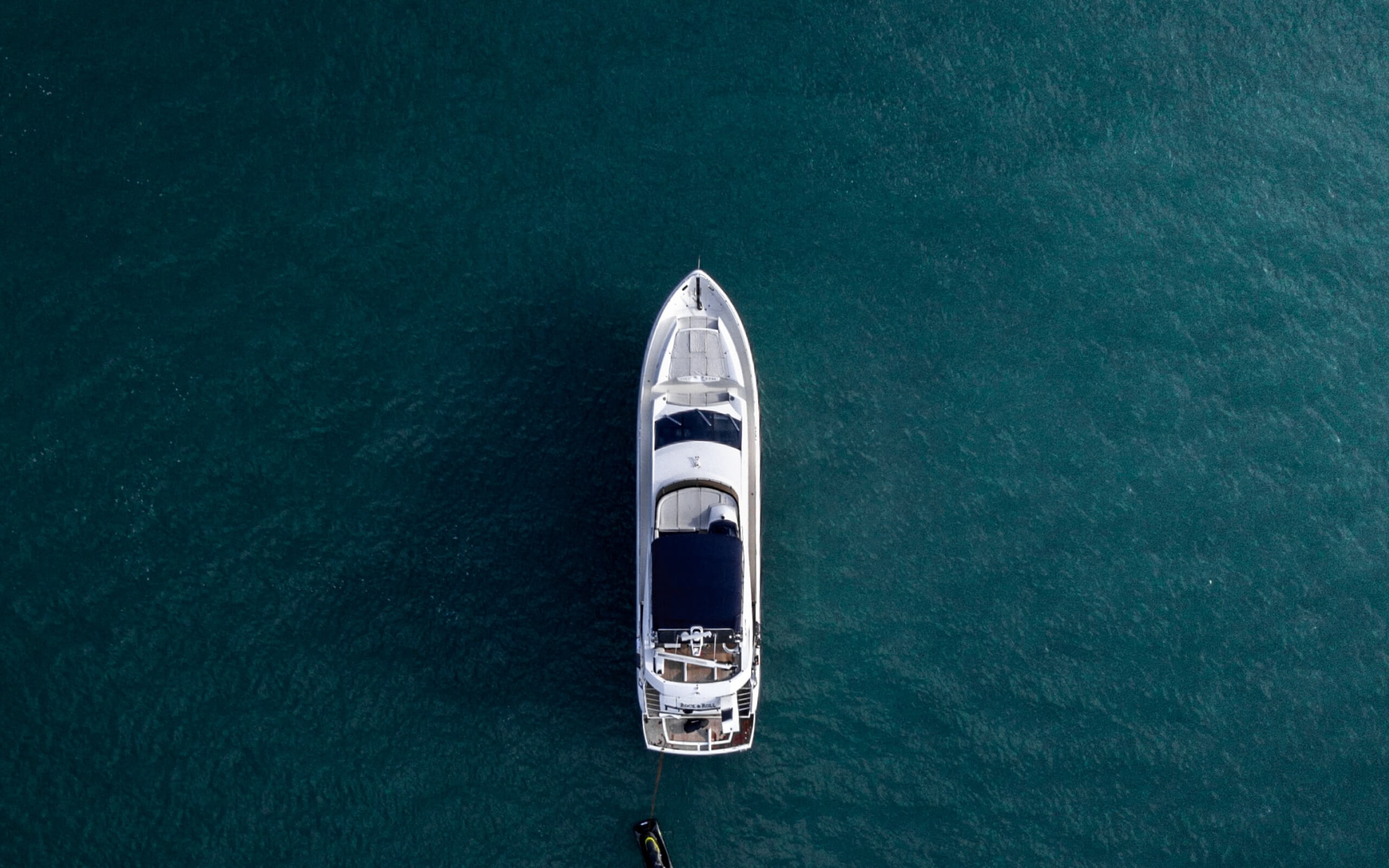
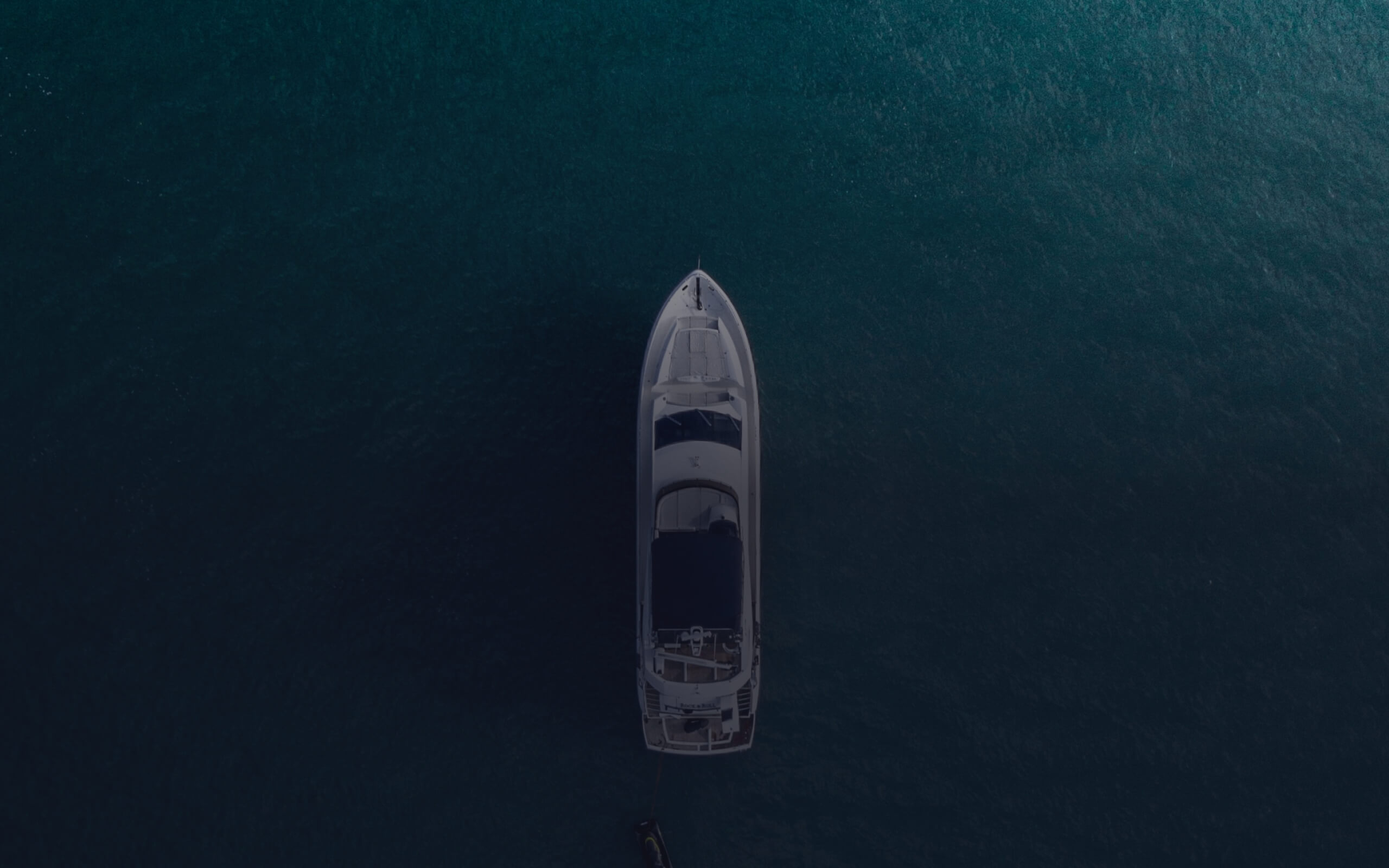
Chenged hero img

diff --git a/src/css/layouts/hero.css b/src/css/layouts/hero.css
@@ -6,12 +6,7 @@
   max-width: 90%;
   max-width: 375px;
   min-height: 812px;
-  background-image: linear-gradient(
-      rgba(17, 19, 31, 0.8) 15.05%,
-      rgba(17, 19, 31, 0.8) 75.3%,
-      rgba(17, 19, 31, 0.8) 98.27%
-    ),
-    url(/img/hero/hero-mobl1x.jpg);
+  background-image: url(/img/hero/hero-mobl1x.jpg);
   background-repeat: no-repeat;
   background-size: cover;
   object-fit: cover;
@@ -20,12 +15,7 @@
 
 @media (min-resolution: 192dpi) {
   .hero-section {
-    background-image: linear-gradient(
-        rgba(17, 19, 31, 0.8) 15.05%,
-        rgba(17, 19, 31, 0.8) 75.3%,
-        rgba(17, 19, 31, 0.8) 98.27%
-      ),
-      url(/img/hero/hero-mobl2x.jpg);
+    background-image: url(/img/hero/hero-mobl2x.jpg);
   }
 }
 
@@ -33,22 +23,12 @@
   .hero-section {
     min-width: 768px;
     min-height: 962px;
-    background-image: linear-gradient(
-        rgba(17, 19, 31, 0.8) 15.05%,
-        rgba(17, 19, 31, 0.8) 75.3%,
-        rgba(17, 19, 31, 0.8) 98.27%
-      ),
-      url(/img/hero/hero-tab1x.jpg);
+    background-image: url(/img/hero/hero-tab1x.jpg);
   }
 
   @media (min-resolution: 192dpi) {
     .hero-section {
-      background-image: linear-gradient(
-          rgba(17, 19, 31, 0.8) 15.05%,
-          rgba(17, 19, 31, 0.8) 75.3%,
-          rgba(17, 19, 31, 0.8) 98.27%
-        ),
-        url(/img/hero/hero-tab2x.jpg);
+      background-image: url(/img/hero/hero-tab2x.jpg);
     }
   }
 }
@@ -57,22 +37,12 @@
   .hero-section {
     min-width: 1280px;
     min-height: 800px;
-    background-image: linear-gradient(
-        rgba(17, 19, 31, 0.8) 15.05%,
-        rgba(17, 19, 31, 0.8) 75.3%,
-        rgba(17, 19, 31, 0.8) 98.27%
-      ),
-      url(/img/hero/hero-1280des1x.jpg);
+    background-image: url(/img/hero/hero-1280des1x.jpg);
   }
 
   @media (min-resolution: 192dpi) {
     .hero-section {
-      background-image: linear-gradient(
-          rgba(17, 19, 31, 0.8) 15.05%,
-          rgba(17, 19, 31, 0.8) 75.3%,
-          rgba(17, 19, 31, 0.8) 98.27%
-        ),
-        url(/img/hero/hero-1280des2x.jpg);
+      background-image: url(/img/hero/hero-1280des2x.jpg);
     }
   }
 }
@@ -81,22 +51,12 @@
   .hero-section {
     min-width: 1440px;
     min-height: 800px;
-    background-image: linear-gradient(
-        rgba(17, 19, 31, 0.8) 15.05%,
-        rgba(17, 19, 31, 0.8) 75.3%,
-        rgba(17, 19, 31, 0.8) 98.27%
-      ),
-      url(/img/hero/hero-1440des1x.jpg);
+    background-image: url(/img/hero/hero-1440des1x.jpg);
   }
 
   @media (min-resolution: 192dpi) {
     .hero-section {
-      background-image: linear-gradient(
-          rgba(17, 19, 31, 0.8) 15.05%,
-          rgba(17, 19, 31, 0.8) 75.3%,
-          rgba(17, 19, 31, 0.8) 98.27%
-        ),
-        url(/img/hero/hero-1440des2x.jpg);
+      background-image: url(/img/hero/hero-1440des2x.jpg);
     }
   }
 }
